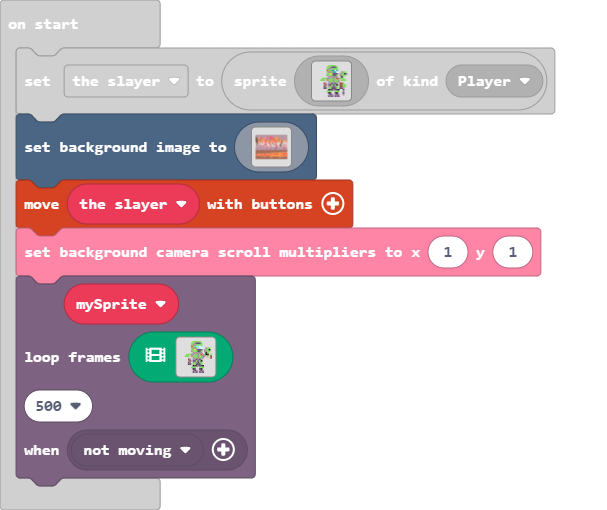
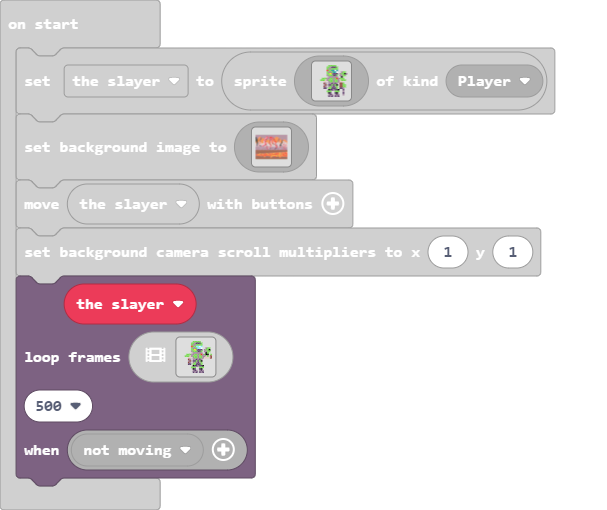
name

Changed region(s): [[0.0, 0.2059, 0.8896, 0.7647], [0.089, 0.8235, 0.4152, 0.9412]]

diff --git a/main.ts b/main.ts
@@ -1,10 +1,9 @@
-let mySprite: Sprite = null
 let the_slayer = sprites.create(assets.image`slayer static position`, SpriteKind.Player)
 scene.setBackgroundImage(assets.image`hell on earth cityscape`)
 controller.moveSprite(the_slayer)
 scroller.setCameraScrollingMultipliers(1, 1)
 characterAnimations.loopFrames(
-mySprite,
+the_slayer,
 assets.animation`slayer concept animations`,
 500,
 characterAnimations.rule(Predicate.NotMoving)
